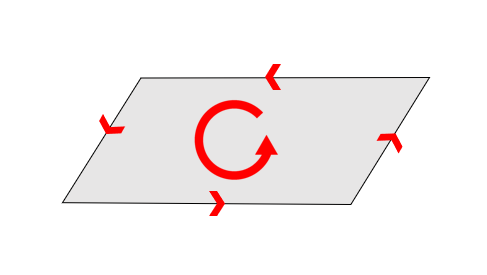
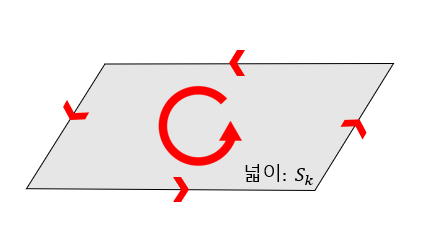
ㄹ

Changed region(s): [[0.0616, 0.1992, 0.955, 0.8252]]

diff --git a/_posts/2020-08-22-stokes_theorem.md b/_posts/2020-08-22-stokes_theorem.md
@@ -115,13 +115,27 @@ $$\oint_C\vec{F}\cdot d\vec{r} = \sum_{k=1}^4\oint_{C_k}\vec{F}\cdot d\vec{r}$$
 
 $$\oint_C\vec{F}\cdot d\vec{r} = \sum_{k=1}^N\oint_{C_k}\vec{F}\cdot d\vec{r}$$
 
-이 때, $N$ 개로 쪼깨진 작은 곡면을 생각해보면 아래와 같이 상상할 수 있는데,
+이 때, $N$ 개로 쪼깨진 작은 곡면을 생각해보면 아래와 같이 상상할 수 있는데, 이 작은 경로 내부의 선적분은 결국 미소 경로에서의 [벡터장의 회전](https://angeloyeo.github.io/2019/08/25/curl.html)과 같은 의미를 갖게 된다.
 
 <p align = "center">
   <img width = "400" src = "https://raw.githubusercontent.com/angeloyeo/angeloyeo.github.io/master/pics/2020-08-22-stokes_theorem/pic7.png">
   <br>
   그림 7. 작은 곡면에서의 경로와 선적분
 </p>
+
+또, curl 편에서 확인했던 것 처럼 curl은 단위 영역에서 받는 회전력이므로 넓이가 $dS$인 곡면에서의 회전량은 곡면의 면벡터와 내적해준 값으로 생각할 수 있다.
+
+그러므로, 아래와 같이 생각할 수 있다.
+
+$$\oint_{C_k}\vec{F}\cdot d\vec{r}\approx(\vec\nabla\times\vec F)_{C_k}\cdot \vec{S}_k$$
+
+따라서 식 (6)을 다시 쓰면 아래와 같다.
+
+$$식(6) = \sum_{k=1}^N\oint_{C_k}\vec{F}\cdot d\vec{r} \approx \sum_{k=1}^N(\vec\nabla\times\vec F)_{C_k}\cdot \vec{S}_k$$
+
+식 (8)에서 $N$을 무한히 크게 만들면 $\vec{S}_k$는 $d\vec{S}$가 될 것이고 결국 식 (6)은 다음과 같이 변하게 될 것이다.
+
+$$\oint_C\vec{F}\cdot d\vec{r} = \iint_S(\vec{\nabla}\times\vec{F})\cdot d\vec{S}$$
 
 
 
